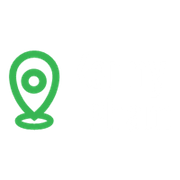
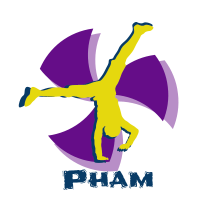
new brand and changed img project3 carousel

diff --git a/index.html b/index.html
@@ -123,7 +123,6 @@
                     </div>
                     <div id="project-3" class="project-showcase col-lg-4 project">
                         <img id="hoppier" class="project-image" src="static/img/projects/user_event/event-welcome-mac.png" data-toggle="modal" data-target="#hoppier-project" alt="hoppier-project">
-                        <!-- <img id="hoppier" class="project-image" src="static/img/projects/user_event/event-sign-up-copy.png" data-toggle="modal" data-target="#hoppier-project" alt="hoppier-project"> -->
                         <div class="project-caption">
                             <h2 class="text-center font-weight-bold pt-1">Hoppier</h2>
                             <p class="text-center">Ruby on Rails</p>
@@ -375,37 +374,38 @@
                         <div id="carouselIndicators-hoppier" class="carousel slide carousel-fade" data-ride="carousel">
                             <div class="carousel-inner">
                                 <div class="carousel-item active">
-                                    <img class="d-block w-100 " src="../static/img/projects/user_event/event-sign-up.png" alt="First slide">
+                                    <img class="d-block w-100 " src="../static/img/projects/user_event/event-welcome.png" alt="First slide">
                                     <div class="caption-content">
-                                        <p><h4>Create an account</h4></p>
+                                        <p><h4>Sign up to see exciting events that are happening around the country</h4></p>
+                                        <p>Add the next event to your itinerary and make it memorable.</p>
                                     </div>
                                 </div>
                                 <div class="carousel-item">
                                     <img class="d-block w-100 " src="../static/img/projects/user_event/event-dashboard.png" alt="Second slide">
                                     <div class="caption-content">
                                         <p><h4>Event Dashboard</h4></p>
-                                        <p>Look at what events are going on within or out of your state and join if you wish. You can also see how many are attending. Here you may edit or delete the event if you are the creater.</p>
+                                        <p>Join events within or out of state and see how many people are going.</p>
                                     </div>    
                                 </div>
                                 <div class="carousel-item">
-                                    <img class="d-block w-100" src="../static/img/projects/user_event/create-event.png" alt="Third slide">
+                                    <img class="d-block w-100" src="../static/img/projects/user_event/event-create.png" alt="Third slide">
                                     <div class="caption-content">
                                         <p><h4>Create an event</h4></p>
-                                        <p>Create and post an upcoming event.</p>
+                                        <p>Create or post an upcoming event to let people know the more the merrier.</p>
                                     </div>    
                                 </div>
                                 <div class="carousel-item">
-                                    <img class="d-block w-100" src="../static/img/projects/user_event/edit-event.png" alt="fourth slide">
+                                    <img class="d-block w-100" src="../static/img/projects/user_event/event-edit.png" alt="fourth slide">
                                     <div class="caption-content">
                                         <p><h4>Edit your event</h4></p>
-                                        <p>Edit anything about your event.</p>
+                                        <p>Make an edit to your event.</p>
                                     </div>    
                                 </div>
                                 <div class="carousel-item">
-                                    <img class="d-block w-100" src="../static/img/projects/user_event/detail-event.png" alt="fifth slide">
+                                    <img class="d-block w-100" src="../static/img/projects/user_event/event-detail.png" alt="fifth slide">
                                     <div class="caption-content">
                                         <p><h4>Event Details</h4></p>
-                                        <p>Know more about the event. Read and join the message board and see who are attending.</p>
+                                        <p>Read and join the message board and see who are attending.</p>
                                     </div>    
                                 </div>
                             </div>

diff --git a/static/css/main.scss b/static/css/main.scss
@@ -17,11 +17,6 @@
 
 
 @import url('https://fonts.googleapis.com/css?family=Montserrat+Alternates|Roboto+Slab|Aleo:700i|Aleo|Old+Standard+TT');
-// fonts {
-//     Montserrat+Alternates: 'Montserrat Alternates', sans-serif;
-//     Roboto+Slab: 'Roboto Slab', serif;
-//     Aleo: 'Aleo', serif;
-// }
 
 *, *::before, *::after {
     box-sizing: border-box;
@@ -63,15 +58,8 @@ img {
     opacity: 0.95;
     background-color: rgb(32, 32, 32);
     #brand {
-        max-width: 40%;
+        max-width: 25%;
     }
-    // .navbar-brand {
-    //     // font-family: 'Lobster Two';
-    //     font-family: 'Aleo', serif;
-    //     font-size: 1.4rem;
-    //     color: green;    
-    //     letter-spacing: 2px;;
-    // }
 }
 // <<<<<<< HEAD
 
@@ -254,12 +242,6 @@ ul.navbar-nav {
 #live_demo {
     color:rgb(168, 0, 0);
 }
-// #dashboard {
-//     height: 58%;
-//     @media only screen and (max-width: 991px) {
-//         height:78%
-//     }
-// }
 
 .project-content { //header of project section
     margin-bottom: 3em;
@@ -323,10 +305,6 @@ ul.navbar-nav {
 
 //  Modal   //
  
-// .modal-dialog {
-//     max-width: 800px !important;
-//     max-height: 600px !important;
-// }
 
 .close {
     span {
@@ -339,9 +317,6 @@ ul.navbar-nav {
     padding-left: 45%;
 }
 
-// ol.carousel-indicators li.active {
-//     background: black;
-// }
 
 
 .caption-content p, h5, h4 {

diff --git a/static/css/main.css b/static/css/main.css
@@ -33,7 +33,7 @@ img {
 }
 
 .navbar #brand {
-  max-width: 40%;
+  max-width: 25%;
 }
 
 li.nav-item {
